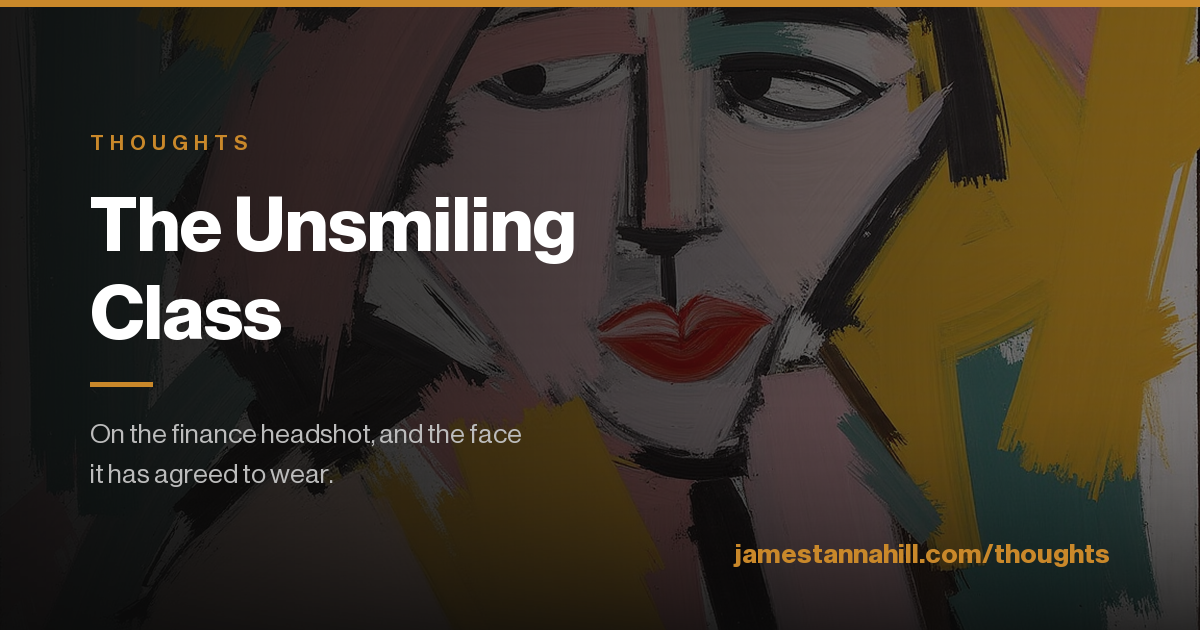
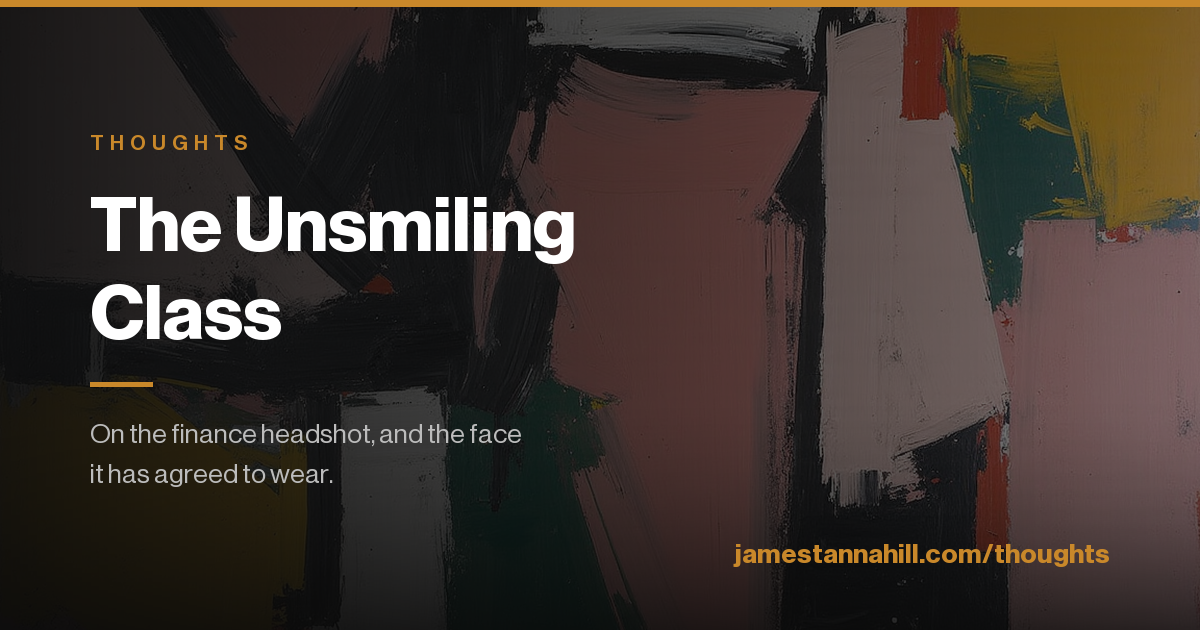
fix: The Unsmiling Class carries faces in both plates
Its second plate was an abstract canvas; it now takes the other de Kooning
face in the Aug 4 run, the portrait with black hair and red lips, so both
in-article images are faces. The OG card takes the freed Southern Ocean
canvas, keeping every placement unique.

Also corrects three index alt texts written before I had viewed those
images, and bumps the OG buster to v=4.

diff --git a/scripts/gen-og-thoughts.py b/scripts/gen-og-thoughts.py
@@ -122,7 +122,7 @@ card(
 
 card(
     "og-the-unsmiling-class.png",
-    "art-arctic-60n-70w.png",
+    "art-region-60s-0e.png",
     "Thoughts",
     ["The Unsmiling", "Class"],
     ["On the finance headshot, and the face", "it has agreed to wear."],
